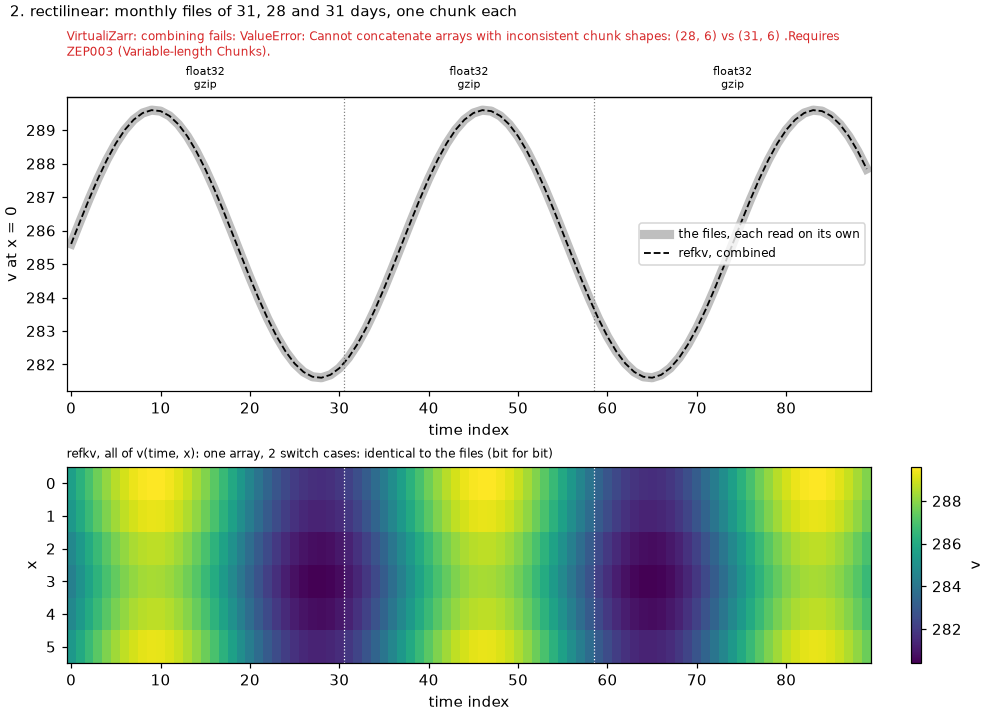
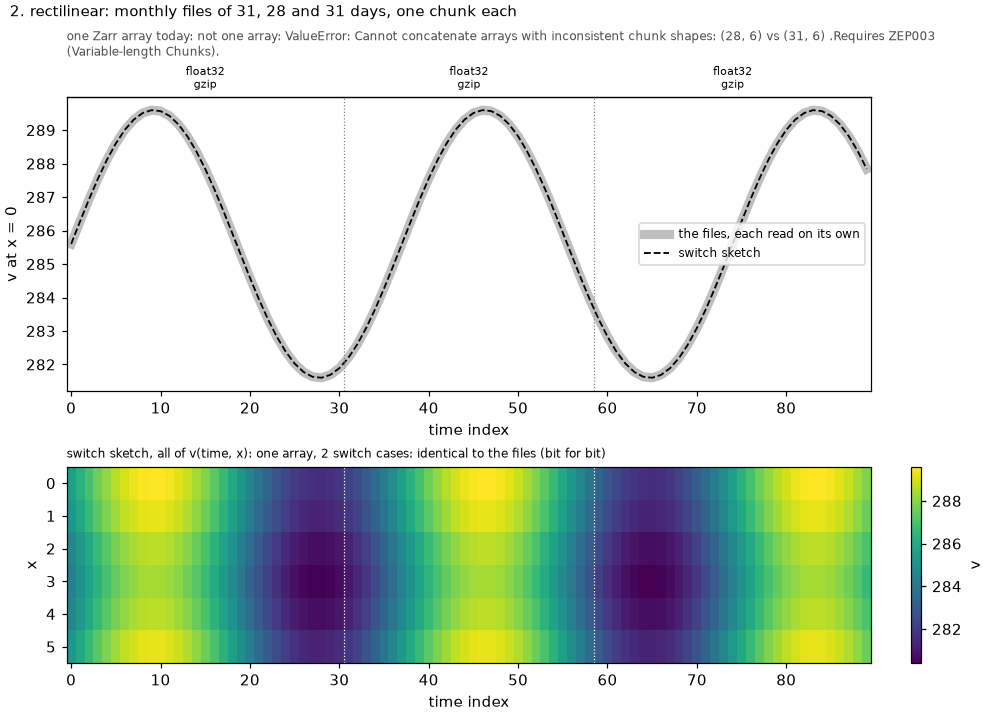
docs(design): frame the zarr-specs#399 demo around what one Zarr array can express
The concatenated virtual datasets are "one Zarr array today": VirtualiZarr
parses every file, and its refusals report what a single array can't hold,
which is the gap the issue describes. Case 4's values come from xarray's
default combine_attrs="override" keeping the first file's attributes;
"no_conflicts" refuses and "drop_conflicts" drops the scaling. The refkv side
is a sketch of the issue's design 2.1, built on VirtualiZarr's per-file
manifests.

Assisted-by: ClaudeCode:claude-opus-5-5

Changed region(s): [[0.0606, 0.0308, 0.9394, 0.0923], [0.0606, 0.6154, 0.6061, 0.6462], [0.697, 0.3385, 0.7879, 0.3692]]

diff --git a/design/experiments/inhomogeneous/demo.py b/design/experiments/inhomogeneous/demo.py
@@ -12,23 +12,31 @@
 #     "matplotlib>=3.10",
 # ]
 # ///
-"""Why many-file datasets fall off the virtualization "complexity cliff", and how
-refkv gets them into one array.
+"""The many-file cases of zarr-developers/zarr-specs#399 ("Varying codec parameters
+per-chunk"), and a sketch of one way to express them as a single Zarr array.
 
-An executable companion to zarr-developers/zarr-specs#399 ("Varying codec parameters
-per-chunk"). Each case writes a few small netCDF4 files, each valid and consistent on
-its own, holding one smooth field `v(time, x)` that continues across the files. It
-virtualizes every file with VirtualiZarr, then combines them into one array along time
-twice: with VirtualiZarr (concatenating its ManifestArrays) and with refkv
-(switch.py). Each result is read back through Zarr and compared with the files read
-one by one:
+Each case writes a few small netCDF4 files, each valid and consistent on its own,
+holding one smooth field `v(time, x)` that continues across the files. Every file is
+virtualized with VirtualiZarr, which parses all of them without trouble. The question
+is the next step, one logical array along time:
+
+- "one Zarr array today": `xr.concat` of the virtual datasets, as
+  `open_virtual_mfdataset` does. A Zarr array has one codec chain, one dtype, one
+  regular chunk grid and one set of attributes, so VirtualiZarr refuses combinations
+  that would need more, and says what is missing. That refusal protects users; it is
+  the gap the issue describes.
+- "switch sketch": the same per-file manifests, combined by switch.py into one array
+  whose chunks each select their own codec chain (design 2.1 of the issue), saved as a
+  vzip archive with refkv and read back through Zarr.
+
+Both are compared with the files read one by one:
 
 - the reference is each file decoded by xarray + h5netcdf (HDF5's own filters, CF
   scaling and _FillValue), concatenated;
 - "identical" means equal bit for bit (NaN equal to NaN); otherwise the largest
   absolute difference is reported;
-- figures/ gets one plot per case: the files, refkv and VirtualiZarr along time at
-  x = 0, with the files' boundaries, and refkv minus the files over (time, x).
+- figures/ gets one plot per case: the files and the combined arrays along time at
+  x = 0, with the files' boundaries, and the sketch's whole field over (time, x).
 
     uv run demo.py
 
@@ -129,18 +137,20 @@ def compare(got: np.ndarray, want: np.ndarray) -> str:
 
 
 def virtualizarr_result(r: Result, vdss: list[xr.Dataset]) -> None:
-    """VirtualiZarr: concatenate the ManifestArrays, then read through Zarr."""
+    """One Zarr array today: concatenate the virtual datasets (xarray's default
+    combine_attrs="override", as open_virtual_mfdataset uses), then read through Zarr."""
     import refkv
     import refkv.zarr
 
     try:
         combined = xr.concat(vdss, dim="time", coords="minimal", compat="override", combine_attrs="override")
-    except Exception as e:  # the cliff: no single Zarr array can describe these files
-        r.vz_note = f"combining fails: {type(e).__name__}: {str(e).splitlines()[0][:160]}"
+    except Exception as e:  # what one Zarr array can't express, as VirtualiZarr reports it
+        r.vz_note = f"not one array: {type(e).__name__}: {str(e).splitlines()[0][:160]}"
         return
     store = refkv.ReferenceStore.from_virtualizarr(combined)
     r.vz = xr.open_zarr(refkv.zarr.store(store), consolidated=False)["v"].values
-    r.vz_note = "combined: " + compare(r.vz, r.want)
+    r.vz_note = ("combined, with the first file's attributes for every file (combine_attrs='override'; "
+                 "'no_conflicts' refuses instead): " + compare(r.vz, r.want))
 
 
 def refkv_result(r: Result, vdss: list[xr.Dataset], root: Path) -> None:
@@ -182,7 +192,8 @@ def run(title: str, make) -> Result:
         vdss = virtualize(paths, root)  # each file alone virtualizes fine
         virtualizarr_result(r, vdss)
         refkv_result(r, vdss, root)
-    print(f"  VirtualiZarr: {r.vz_note}\n  refkv:        {r.rk_note}\n                {r.extra['archive']}")
+    print(f"  one Zarr array today: {r.vz_note}\n  switch sketch:        {r.rk_note}\n"
+          f"                        {r.extra['archive']}")
     return r
 
 
@@ -199,9 +210,10 @@ def plot(r: Result, path: Path) -> None:
     t = np.arange(n)
     ax.plot(t, r.want[:, 0], color="0.75", lw=6, label="the files, each read on its own")
     if r.vz is not None:
-        ax.plot(t, r.vz[:, 0], color="tab:red", lw=1.5, marker="x", ms=4, label="VirtualiZarr, combined")
+        ax.plot(t, r.vz[:, 0], color="tab:orange", lw=1.5, marker="x", ms=4,
+                label="one Zarr array today (first file's attributes)")
     if r.rk is not None:
-        ax.plot(t, r.rk[:, 0], color="k", lw=1.2, ls="--", label="refkv, combined")
+        ax.plot(t, r.rk[:, 0], color="k", lw=1.2, ls="--", label="switch sketch")
     ends = r.boundaries[1:] + [n]
     for b in r.boundaries[1:]:
         ax.axvline(b - 0.5, color="0.5", lw=0.8, ls=":")
@@ -212,7 +224,7 @@ def plot(r: Result, path: Path) -> None:
     ax.set_xlabel("time index")
     ax.set_ylabel("v at x = 0")
     vz = r.vz_note if r.vz is not None else "\n".join(textwrap.wrap(r.vz_note, 120))
-    ax.set_title(f"VirtualiZarr: {vz}", fontsize=8, loc="left", color="tab:red")
+    ax.set_title(f"one Zarr array today: {vz}", fontsize=8, loc="left", color="0.3")
     ax.legend(fontsize=8, loc="best")
     im = ax2.imshow(r.rk.T, aspect="auto", cmap="viridis", interpolation="nearest",
                     extent=(-0.5, n - 0.5, NX - 0.5, -0.5))
@@ -220,7 +232,7 @@ def plot(r: Result, path: Path) -> None:
         ax2.axvline(b - 0.5, color="w", lw=0.8, ls=":")
     ax2.set_xlabel("time index")
     ax2.set_ylabel("x")
-    ax2.set_title(f"refkv, all of v(time, x): {r.rk_note}", fontsize=8, loc="left")
+    ax2.set_title(f"switch sketch, all of v(time, x): {r.rk_note}", fontsize=8, loc="left")
     fig.colorbar(im, ax=ax2, label="v")
     fig.savefig(path, dpi=110)
     plt.close(fig)

diff --git a/design/experiments/inhomogeneous/README.md b/design/experiments/inhomogeneous/README.md
@@ -1,19 +1,23 @@
-# Inhomogeneous files: one array with refkv, where VirtualiZarr can't combine them
+# Inhomogeneous files: the zarr-specs#399 cases, and a per-chunk codec sketch
 
 An executable companion to
 [zarr-developers/zarr-specs#399](https://github.com/zarr-developers/zarr-specs/issues/399)
 ("Varying codec parameters per-chunk"). [demo.py](demo.py) writes small netCDF4
-files, each valid and consistent on its own, in the five shapes the issue
-describes. It virtualizes each file with VirtualiZarr (which works). It then
-combines them along time into one logical array twice:
+files in the five shapes the issue describes. Each file is valid and consistent on its
+own, and VirtualiZarr parses every one of them without trouble.
 
-- **VirtualiZarr:** concatenating the files' ManifestArrays, as
-  `open_virtual_mfdataset` does.
-- **refkv:** building one array from the same per-file manifests, with
-  [switch.py](switch.py). The result is saved as a vzip archive, reopened, and read
-  through zarr-python and xarray.
+The demo looks at the next step: one logical array along time.
 
-Both are compared with the files read one by one.
+- **One Zarr array today.** This is `xr.concat` of the virtual datasets, as
+  `open_virtual_mfdataset` does it. A Zarr array has one codec chain, one dtype, one
+  regular chunk grid and one set of attributes. So VirtualiZarr refuses combinations
+  that would need more, and its errors say what's missing (it names ZEP003 for
+  variable-length chunks). That refusal is the safe behavior; the gap it reports is
+  the one the issue is about.
+- **A sketch of design 2.1 from the issue.** The same per-file manifests from
+  VirtualiZarr are combined by [switch.py](switch.py) into one array whose chunks each
+  select their own codec chain. That array is saved as a vzip archive with refkv,
+  reopened, and read through zarr-python and xarray.
 
 ```bash
 cd design/experiments/inhomogeneous && uv run demo.py
@@ -24,13 +28,26 @@ cd design/experiments/inhomogeneous && uv run demo.py
 it alone, with refkv from PyPI. It doesn't use this repository's environment. The two
 files, `demo.py` and [switch.py](switch.py), run from any directory.
 
-| case | the files | VirtualiZarr | refkv |
+| case | the files | one Zarr array today | switch sketch |
 |---|---|---|---|
-| 1. codec eras (GOES-16) | gzip, gzip, shuffle + gzip, uncompressed | fails: one codec chain per array | ✅ bit for bit, 3 cases |
-| 2. rectilinear chunks (monthly files) | 31, 28 and 31 days, one chunk each | fails: needs variable-length chunks | ✅ bit for bit, rectilinear grid |
-| 3. ragged inner chunks (tiled cubes) | 10 steps each, chunked by 4 (4, 4, 2) | fails: partial chunks break the regular grid | ✅ bit for bit, rectilinear grid + `crop` |
-| 4. per-file `scale_factor` / `add_offset` (BOM BARPA) | int16, each file with its own CF scaling | **combines, then 120 of 180 values are wrong, by up to 19.6** | ✅ bit for bit, 3 cases |
-| 5. varying dtype | int16, int16, float32 | fails: one array, one dtype | ✅ bit for bit, 2 cases |
+| 1. codec eras (GOES-16) | gzip, gzip, shuffle + gzip, uncompressed | not expressible: one codec chain per array | bit for bit, 3 cases |
+| 2. rectilinear chunks (monthly files) | 31, 28 and 31 days, one chunk each | not expressible: needs variable-length chunks (ZEP003) | bit for bit, rectilinear grid |
+| 3. ragged inner chunks (tiled cubes) | 10 steps each, chunked by 4 (4, 4, 2) | not expressible: partial chunks inside a regular grid | bit for bit, rectilinear grid + `crop` |
+| 4. per-file `scale_factor` / `add_offset` (BOM BARPA) | int16, each file with its own CF scaling | one array, one set of attributes (see below) | bit for bit, 3 cases |
+| 5. varying dtype | int16, int16, float32 | not expressible: one dtype per array | bit for bit, 2 cases |
+
+Case 4 is the subtle one, and it isn't specific to any tool. CF scaling is array-level
+attributes, and one array has one set, so concatenating the files has to choose:
+
+- **`combine_attrs="override"`** is the default in both `xr.concat` and
+  `open_virtual_mfdataset`. It keeps the first file's `scale_factor` and `add_offset`,
+  so the other files' integers decode with the wrong scaling: 120 of 180 values are
+  off, by up to 19.6.
+- **`"no_conflicts"`** refuses the combination.
+- **`"drop_conflicts"`** drops the scaling, leaving the raw integers.
+
+None of these gives one correctly scaled array, because the scaling varies per file.
+That's the issue's point: the per-file context has to live somewhere per chunk.
 
 ## How the results are checked
 
@@ -38,9 +55,11 @@ files, `demo.py` and [switch.py](switch.py), run from any directory.
   applies HDF5's own filters (deflate, shuffle) and xarray's CF decoding
   (`scale_factor`, `add_offset`, `_FillValue`). The decoded arrays are concatenated
   along time.
-- **The combined arrays.** VirtualiZarr's result is read through Zarr, using refkv's
-  in-memory store for its manifest. refkv's is saved as a vzip archive, reopened, and
-  read through zarr-python and xarray.
+- **The combined arrays.**
+  - The concatenated virtual dataset is read through Zarr, using refkv's in-memory
+    store for its manifest.
+  - The switch sketch is saved as a vzip archive, reopened, and read through
+    zarr-python and xarray.
 - **The comparison.** "Bit for bit" means `np.array_equal(..., equal_nan=True)`, with
   no tolerance. Otherwise the run reports the largest absolute difference, and how
   many values are off by more than 0.001.
@@ -50,13 +69,10 @@ files, `demo.py` and [switch.py](switch.py), run from any directory.
 
 [`figures/`](figures/) has one plot per case:
 
-- **Top panel:** `v` along time at `x = 0`, for the files, refkv, and VirtualiZarr
-  where it combines. The dotted lines are the file boundaries; each file's encoding is
-  labeled above its span.
-- **Bottom panel:** all of refkv's `v(time, x)`.
-
-Case 4 is the one where VirtualiZarr produces an array: the second file drifts, and
-the third drops by about 20.
+- **Top panel:** `v` along time at `x = 0`, for the files and both combined arrays.
+  The dotted lines are the file boundaries; each file's encoding is labeled above its
+  span.
+- **Bottom panel:** all of the sketch's `v(time, x)`.
 
 ![case 4](figures/case4.png)
 
@@ -68,13 +84,13 @@ the third drops by about 20.
 The archives hold a few kilobytes of metadata; the chunks are read in place from
 the netCDF files. [output.txt](output.txt) is a full run.
 
-## How: one codec per transformation, and one that chooses
+## How the sketch works: one codec per transformation, and one that chooses
 
 Each thing that varies between the files is its own, independent codec:
 
 | what varies per file | codec |
 |---|---|
-| compression, shuffle | the file's own codecs, as VirtualiZarr reports them (`numcodecs.zlib`, `numcodecs.shuffle`) |
+| compression, shuffle | the file's own codecs, as VirtualiZarr's HDF5 parser reports them (`numcodecs.zlib`, `numcodecs.shuffle`) |
 | stored dtype | [`cast_value`](https://github.com/zarr-developers/zarr-extensions/tree/main/codecs/cast_value) (zarr-extensions, in zarr-python 3.4) |
 | CF `scale_factor` / `add_offset` | [`scale_offset`](https://github.com/zarr-developers/zarr-extensions/tree/main/codecs/scale_offset) (zarr-extensions, in zarr-python 3.4) |
 | stored chunk shape (HDF5 stores edge chunks whole) | `crop` (new: decodes by keeping the cell, encodes by padding) |
@@ -151,7 +167,7 @@ reason.
   (zarr-extensions) already puts a per-chunk header in the chunk bytes, to turn codecs
   of one chain on or off. `switch` chooses among chains, so it also covers what
   `conditional` can't: a different dtype, scaling, or stored shape per chunk.
-- **Concatenating two such arrays** (VirtualiZarr's manifest-level operations) means
+- **Concatenating two such arrays** (manifest-level operations, as VirtualiZarr does them) means
   joining their case lists and renumbering each chunk's index: one literal byte per
   chunk, rewritten by tooling. No source bytes change.
 
